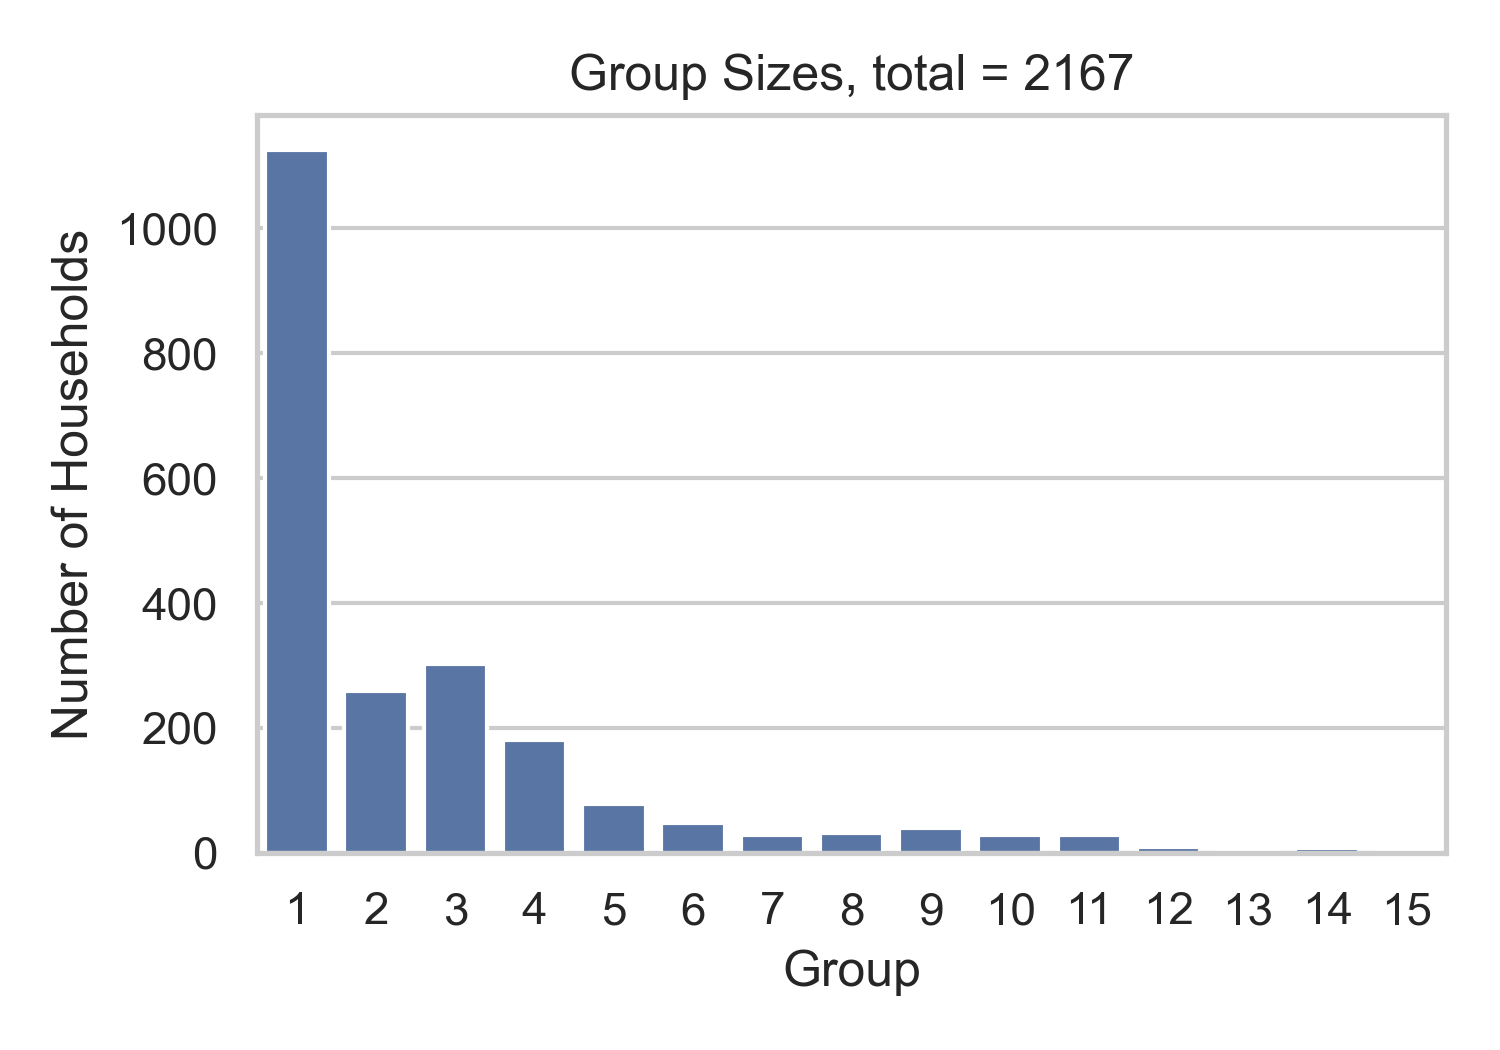
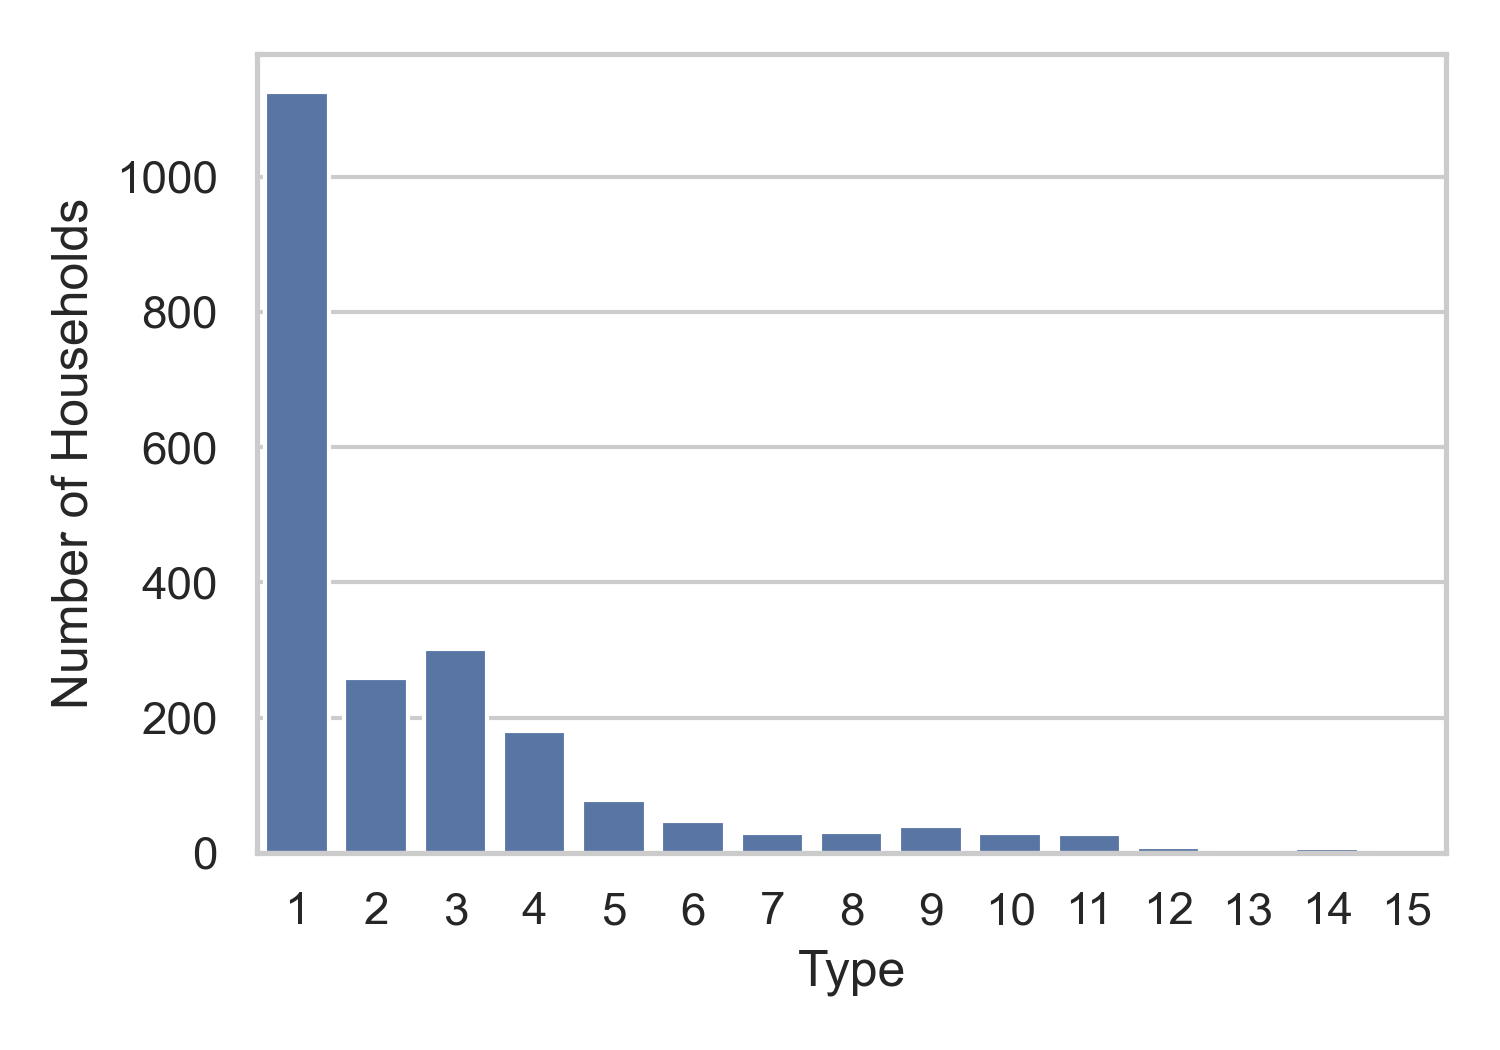
Schedule figures via seaborn lineplot
Group sizes was already sns.barplot; the rationality schedules now use
sns.lineplot under the same whitegrid theme, keeping the 5 x 3.5 tight
layout and the simplified axis labels.

diff --git a/code/graphs.py b/code/graphs.py
@@ -46,8 +46,7 @@ n_households = sizes['partition_size'].sum()
 
 plt.figure(figsize=(5, 3.5))
 sns.barplot(data=sizes, x=f'group_{SAMPLE}', y='partition_size')
-plt.title('Group Sizes, total = {}'.format(n_households))
-plt.xlabel('Group')
+plt.xlabel('Type')
 plt.ylabel('Number of Households')
 plt.xticks()
 plt.tight_layout()
@@ -57,8 +56,8 @@ print("Saved graphs/group_sizes.png")
 
 # %% Rationality schedules (the product)
 
-Y_LABELS = {'ccei': 'Minimum group CCEI',
-            'varian': 'Average Varian multiplier'}
+Y_LABELS = {'ccei': 'Minimum CCEI',
+            'varian': 'Varian index'}
 
 for method, ylabel in Y_LABELS.items():
     path = f'working_data/schedule_loss_{method}_{SAMPLE}.csv'
@@ -69,13 +68,12 @@ for method, ylabel in Y_LABELS.items():
     schedule = pd.read_csv(path, index_col='k')
 
     fig, ax = plt.subplots(figsize=(5, 3.5))
-    ax.plot(schedule.index, schedule['rationality'], marker='o')
+    sns.lineplot(x=schedule.index, y=schedule['rationality'],
+                 marker='o', ax=ax)
     ax.set_xlabel('Number of types')
     ax.set_ylabel(ylabel)
     ax.set_ylim(0, 1.02)
     ax.set_xticks(schedule.index)
-    ax.set_title(f'Rationality by number of types '
-                 f'({method.upper()}, {SAMPLE_LABEL})')
     fig.tight_layout()
     filename = f'schedule_rationality_{method}_{SAMPLE}.png'
     fig.savefig(f'graphs/{filename}', dpi=150)